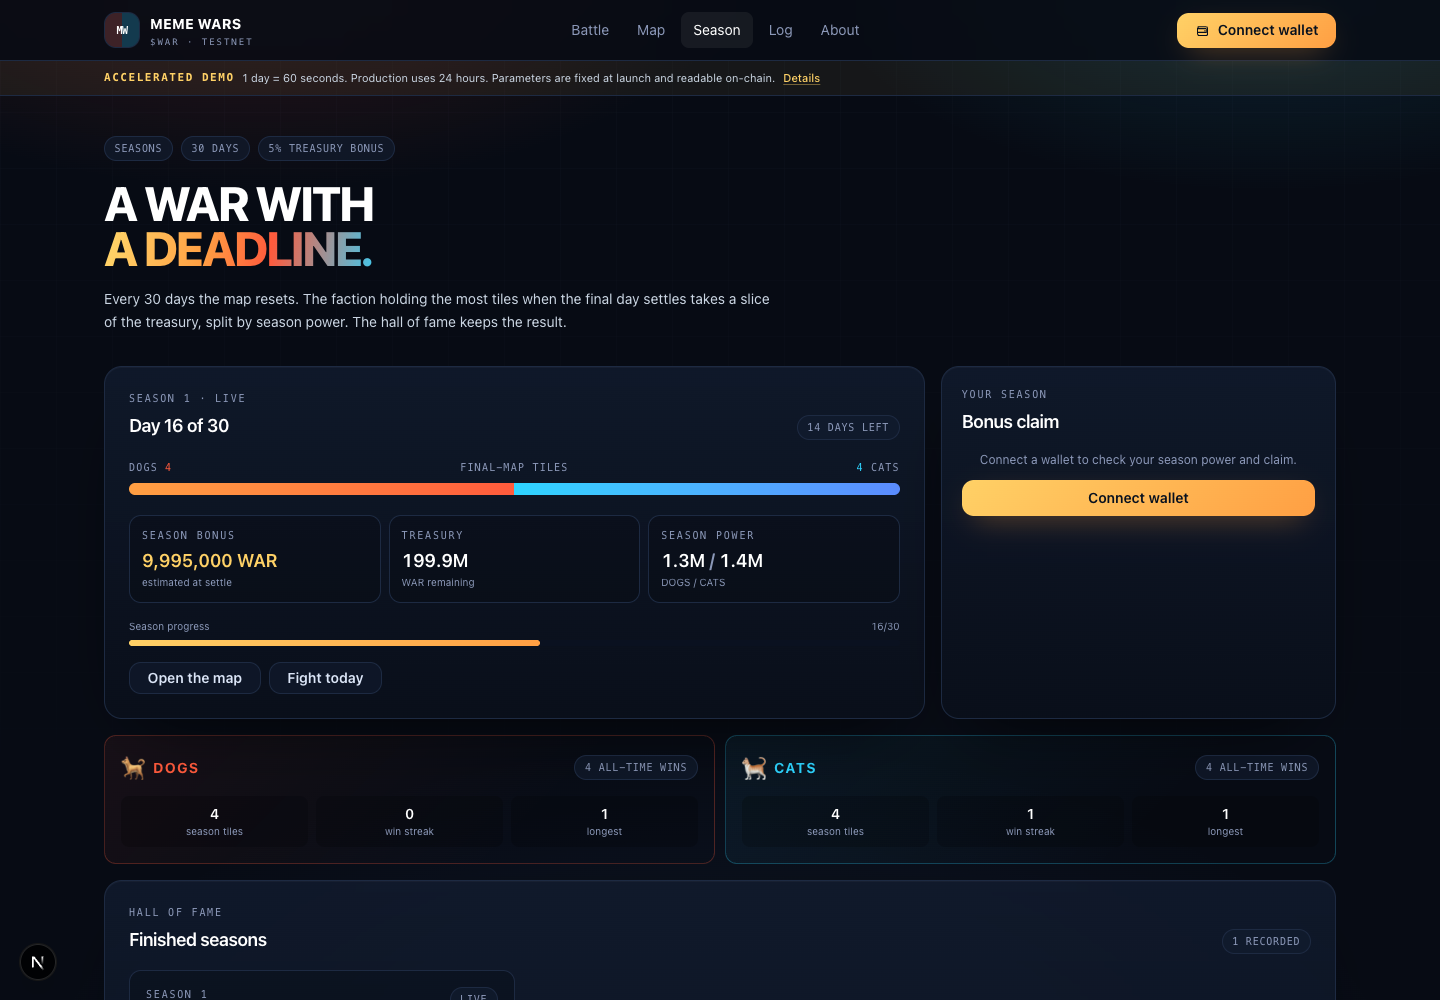
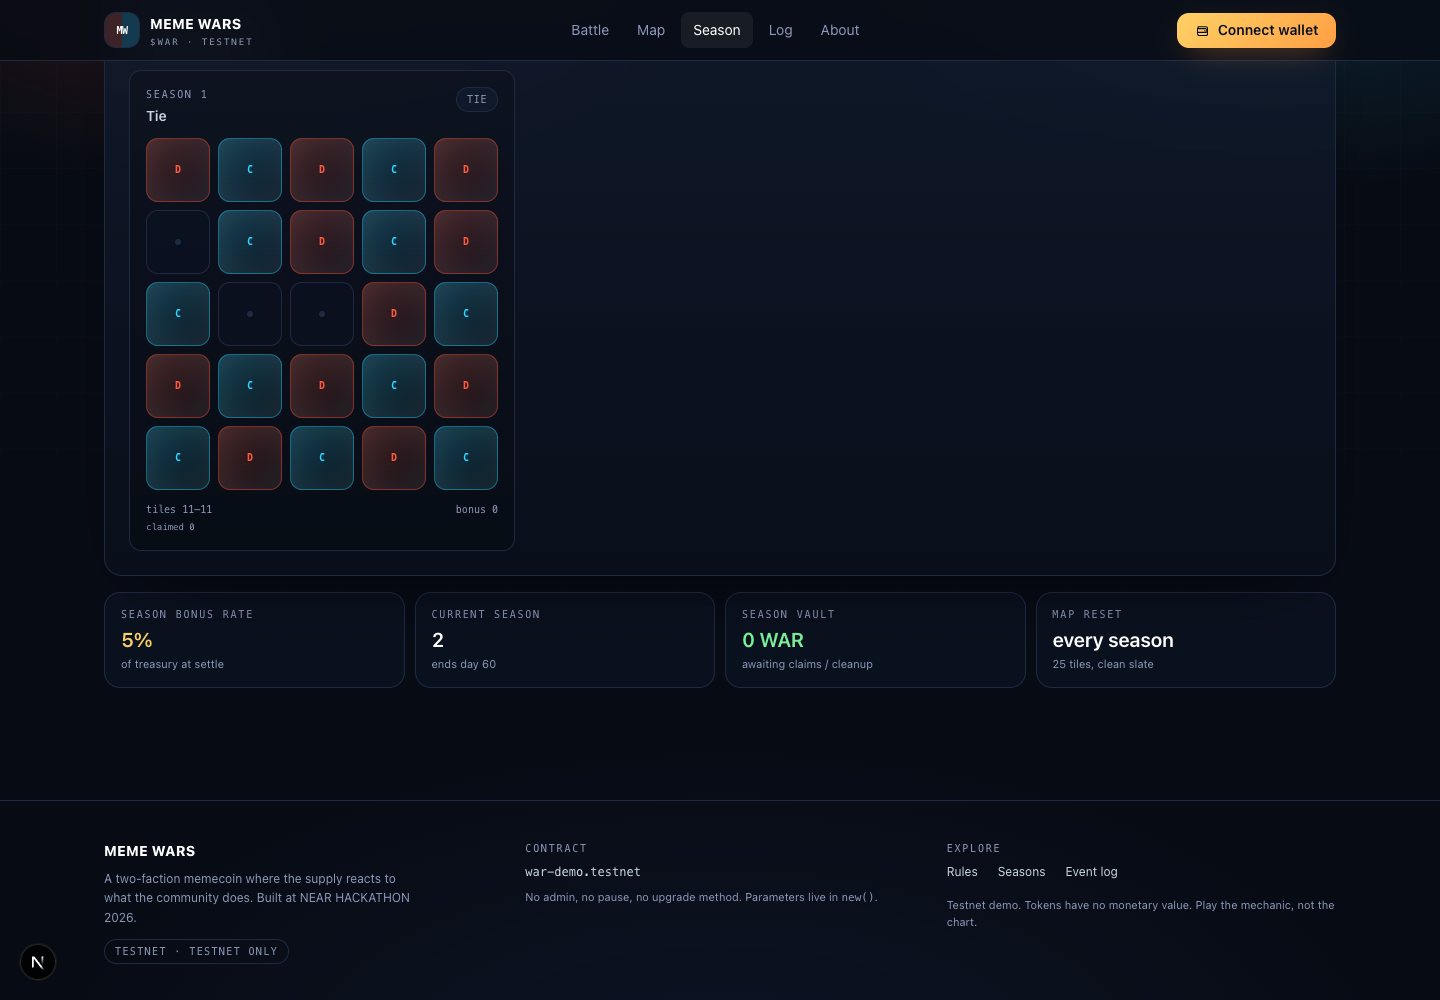
Polish season hall of fame and record season 1 tie
- Show a tie chip instead of claimable for drawn seasons
- Update the season screenshot to the final-map hall of fame
- Record the 11-11 season 1 tie and season 2 start in PROGRESS
- Remove an unused keeper import

diff --git a/frontend/src/app/season/page.tsx b/frontend/src/app/season/page.tsx
@@ -372,9 +372,11 @@ export default function SeasonPage() {
                       >
                         {item.rewards_closed
                           ? "closed"
-                          : item.settled
-                            ? "claimable"
-                            : "live"}
+                          : !item.settled
+                            ? "live"
+                            : item.winner === null
+                              ? "tie"
+                              : "claimable"}
                       </span>
                     </div>
                     <MapGrid

diff --git a/docs/PROGRESS.md b/docs/PROGRESS.md
@@ -50,6 +50,10 @@ track `memecoins`.
   keys in `~/.near-credentials`, never in the repo).
 - Demo state is real chain state. The two seeded players are demo bots and are
   labeled as such in the README and UI log.
+- Season 1 closed at day 30 in an **11–11 final-map tie** (3 tiles unclaimed),
+  so no season bonus was released. The hall of fame records it; season 2 is
+  live and the keeper continues. This is a good demonstration of the
+  final-map rule, including the tie case.
 
 ### Earlier staging (not for judges)
 

diff --git a/README.md b/README.md
@@ -100,9 +100,9 @@ keys live in `~/.near-credentials` (outside this repository).
 |---|---|
 | ![Battle](docs/screenshots/battle.png) | ![Map](docs/screenshots/map.png) |
 
-| Season | War log |
+| Season / hall of fame | War log |
 |---|---|
-| ![Season](docs/screenshots/season.png) | ![Log](docs/screenshots/log.png) |
+| ![Season hall of fame](docs/screenshots/season.png) | ![Log](docs/screenshots/log.png) |
 
 Mobile: [battle](docs/screenshots/battle-mobile.png) ·
 [map](docs/screenshots/map-mobile.png)
